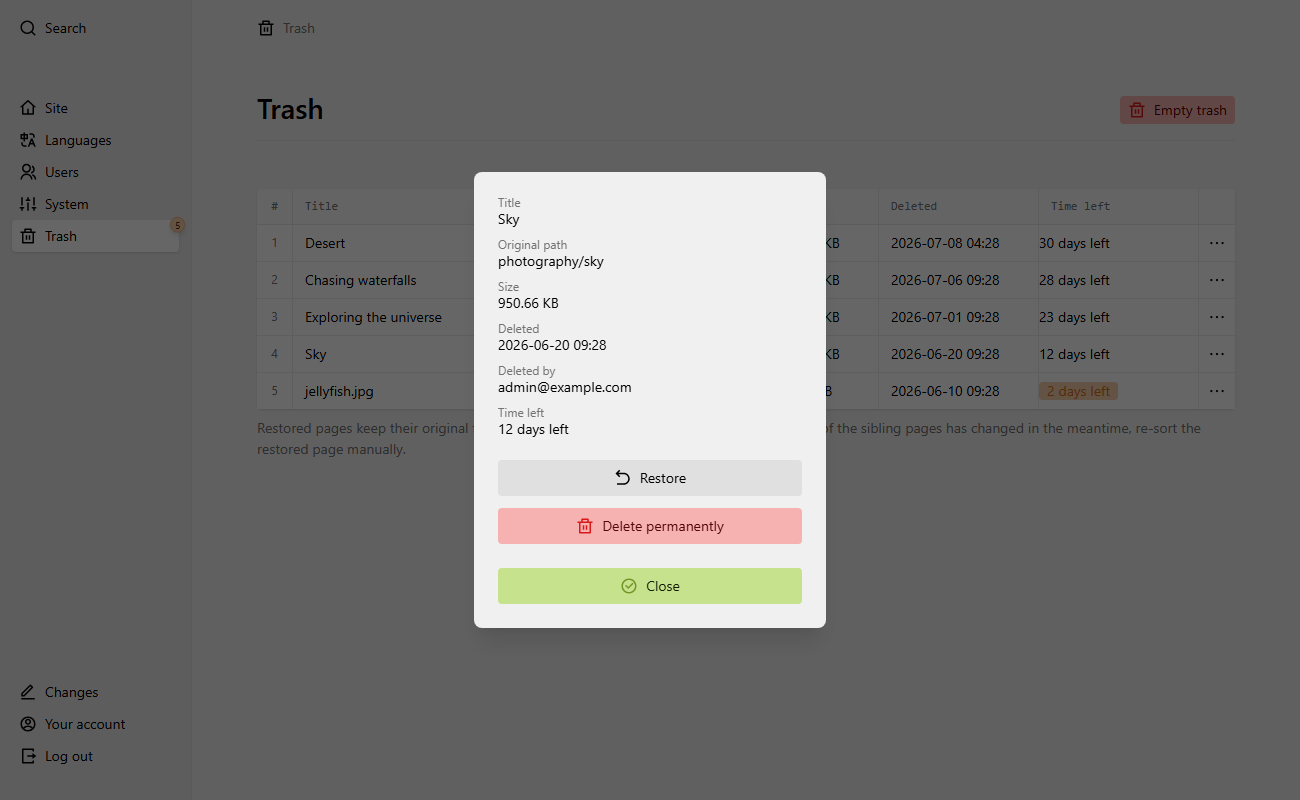
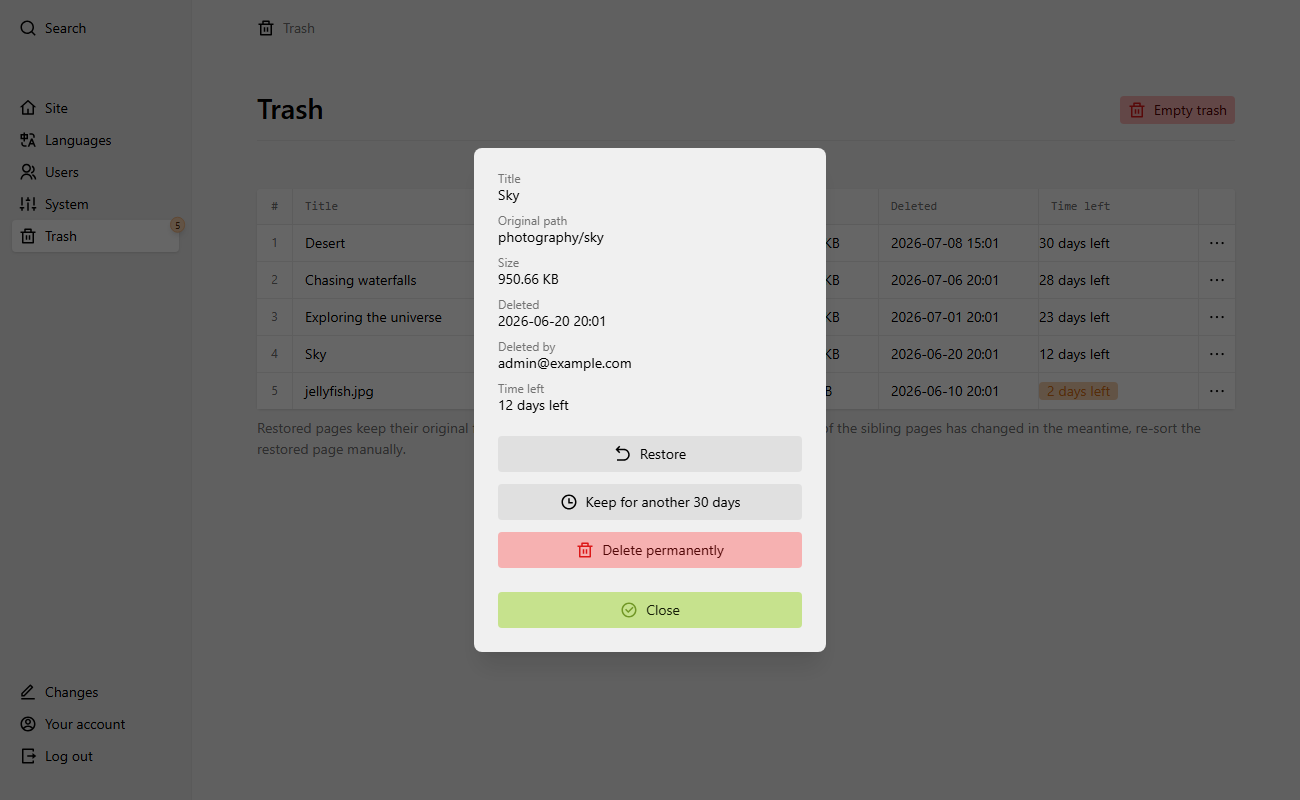
Add the v0.3.0 screenshots, skip POSIX permission cases on Windows
Screenshots come from the auditor round: refreshed area and details
views (the details dialog now shows the postpone action) plus the
new cleanup report box, embedded in the automatic-cleanup section.

testRootIssueDetectsUnusableRoots gets a Windows guard analogous to
the symlink test: chmod() cannot revoke directory permissions there,
so the POSIX-based cases cannot be simulated.

diff --git a/tests/TrashTest.php b/tests/TrashTest.php
@@ -252,6 +252,12 @@ final class TrashTest extends TestCase
 			$this->markTestSkipped('permission checks are bypassed when running as root');
 		}
 
+		// chmod() cannot revoke directory permissions on Windows,
+		// so the POSIX-based cases below cannot be simulated there
+		if (DIRECTORY_SEPARATOR === '\\') {
+			$this->markTestSkipped('POSIX permissions are not enforced on Windows');
+		}
+
 		$locked = $this->tmp . '/locked';
 		Dir::make($locked);
 		chmod($locked, 0000);

diff --git a/README.md b/README.md
@@ -139,6 +139,8 @@ run the bundled CLI command (requires
 kirby trash:cleanup
 ```
 
+![The trash area reporting what the automatic cleanup just removed](.github/screenshot-cleanup-report.png)
+
 ## Permissions
 
 By default only admins can see and manage the trash. Admins always have